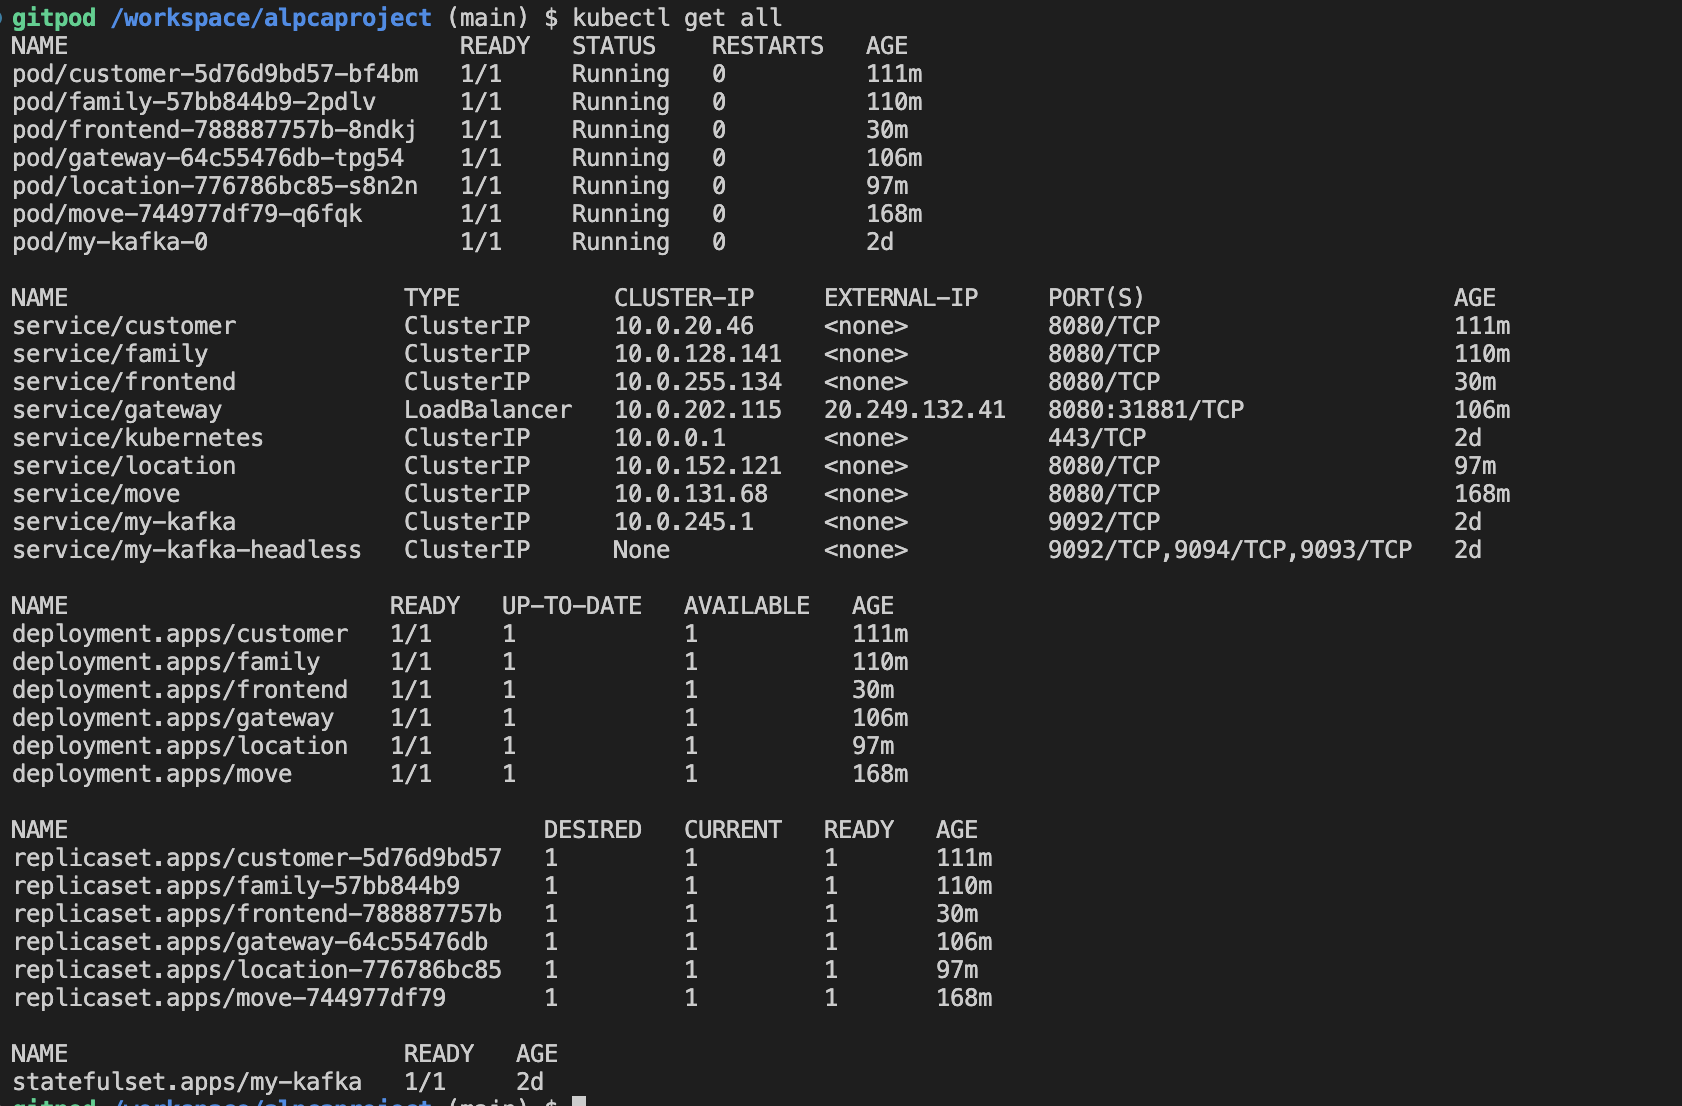
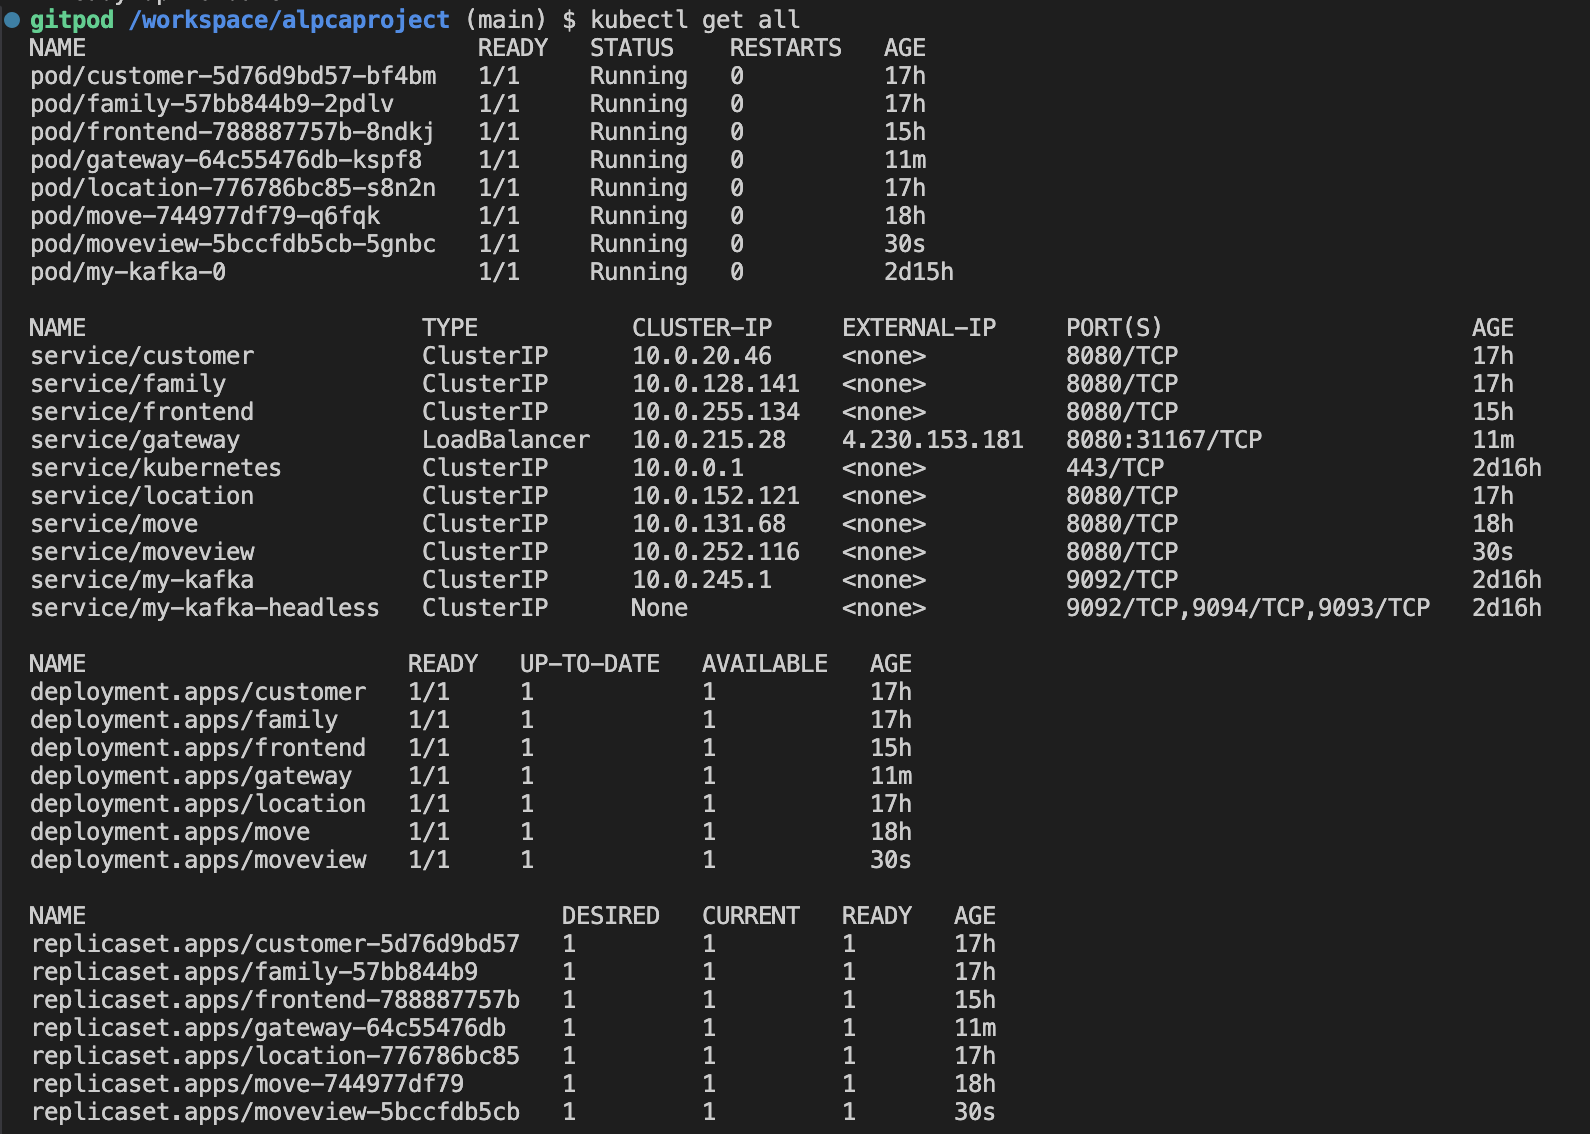
readme 업데이트

Changed region(s): [[0.0, 0.0, 0.8937, 1.0], [0.9245, 0.2767, 0.9862, 0.5533]]

diff --git a/README.md b/README.md
@@ -8,9 +8,13 @@
     - [비기능적요구사항](#비기능적-요구사항)
     - [분석설계](#분석-설계)
     - [이벤트스토밍 결과](#event-storming-결과)
-- [구현]
-- [운영]
-
+- [구현](#구현)
+    - [CQRS](#cqrs)
+- [운영](#운영)
+    - [Docker](#docker-build-이미지-생성-및-배포docker-hub)
+    - [K8S](#k8s-배포-설정)
+    - [API GateWay](#api-gateway)
+    - [Ingress](#ingress-설정)
 <br>
 <br>
 
@@ -115,20 +119,136 @@ mvn spring-boot:run
 ---
 이동(Move), 위치(Location) 등 Status에 대하여 고객(Customer)와 가족(Family)가 조회 및 알람을 받을 수 있도록 CQRS로 구현.
 
-- Customer 개별 distace, duration, status Aggregate Status를 통합 조회하여 성능 Issue를 사전에 예방할 수 있다.
+- Customer 개별 distace, duration, status Aggregate Status를 moveview를 통해 통합 조회하여 성능 Issue를 사전에 예방할 수 있다.
 - 비동기식으로 처리되며, Kafka를 통해 수신/처리 되어 별도 Table에 관리
 - CustomerRegister 이벤트 발생 시, Pub/Sub 기반으로 FamilyId에 해당하는 구성원이 수락해야 계정이 Active가 되도록 구성
 ![image.png](AICT%20Cloud%20Project%20b2a5de0cd0f54fa1bbb1cbd870b78442/image12.png)
 
+CQRS 데이터프로젝션을 moveview로 구현하여 API 요청시 customerId에 따른 상태값을 조회할 수 있다.
+```json
+{
+    "_embedded": {
+        "moveviews": [
+            {
+                "customerId": "guest2",
+                "distance": 25220,
+                "duration": 1630132,
+                "status": "moving",
+                "locId": "loc-20241011013733",
+                "_links": {
+                    "self": {
+                        "href": "http://localhost:8087/moveviews/move-20241011013732"
+                    },
+                    "moveview": {
+                        "href": "http://localhost:8087/moveviews/move-20241011013732"
+                    }
+                }
+            },
+            {
+                "customerId": "guest1",
+                "distance": 10328,
+                "duration": 1334892,
+                "status": "moving",
+                "locId": "loc-20241011013746",
+                "_links": {
+                    "self": {
+                        "href": "http://localhost:8087/moveviews/move-20241011013746"
+                    },
+                    "moveview": {
+                        "href": "http://localhost:8087/moveviews/move-20241011013746"
+                    }
+                }
+            },
+            {
+                "customerId": "guest1",
+                "distance": 19217,
+                "duration": 1543509,
+                "status": "moving",
+                "locId": "loc-20241011014036",
+                "_links": {
+                    "self": {
+                        "href": "http://localhost:8087/moveviews/move-20241011014035"
+                    },
+                    "moveview": {
+                        "href": "http://localhost:8087/moveviews/move-20241011014035"
+                    }
+                }
+            },
+            {
+                "customerId": "guest1",
+                "distance": 19324,
+                "duration": 1589128,
+                "status": "moving",
+                "locId": "loc-20241011014351",
+                "_links": {
+                    "self": {
+                        "href": "http://localhost:8087/moveviews/move-20241011014350"
+                    },
+                    "moveview": {
+                        "href": "http://localhost:8087/moveviews/move-20241011014350"
+                    }
+                }
+            },
+            {
+                "customerId": "guest1",
+                "distance": 10091,
+                "duration": 1287967,
+                "status": "moving",
+                "locId": "loc-20241011014856",
+                "_links": {
+                    "self": {
+                        "href": "http://localhost:8087/moveviews/move-20241011014856"
+                    },
+                    "moveview": {
+                        "href": "http://localhost:8087/moveviews/move-20241011014856"
+                    }
+                }
+            },
+            {
+                "customerId": "guest1",
+                "distance": 25217,
+                "duration": 1596921,
+                "status": "moving",
+                "locId": "loc-20241011015303",
+                "_links": {
+                    "self": {
+                        "href": "http://localhost:8087/moveviews/move-20241011015303"
+                    },
+                    "moveview": {
+                        "href": "http://localhost:8087/moveviews/move-20241011015303"
+                    }
+                }
+            }
+        ]
+    },
+    "_links": {
+        "self": {
+            "href": "http://localhost:8087/moveviews"
+        },
+        "profile": {
+            "href": "http://localhost:8087/profile/moveviews"
+        }
+    },
+    "page": {
+        "size": 20,
+        "totalElements": 6,
+        "totalPages": 1,
+        "number": 0
+    }
+}
+```
+
 <br>
 <br>
 
-## Docker Build 이미지 생성 및 배포(Docker hub)
+## 운영
+
+### Docker Build 이미지 생성 및 배포(Docker hub)
 ![image.png](AICT%20Cloud%20Project%20b2a5de0cd0f54fa1bbb1cbd870b78442/image9.png)
 
 <br>
 
-## K8S 배포 설정
+### K8S 배포 설정
 ![image.png](AICT%20Cloud%20Project%20b2a5de0cd0f54fa1bbb1cbd870b78442/image10.png)
 Azure Aks에 배포
 
@@ -136,7 +256,7 @@ Azure Aks에 배포
 AKS Pod, service, deployment, replicaset 들이 정상적으로 배포되고 LoadBalancer를 통해 잘 외부 IP에 배포된 모습
 <br>
 
-## API GateWay 
+### API GateWay 
 ```yaml
 server:
   port: 8088
@@ -233,6 +353,73 @@ server:
 
 ```
 
-## Ingress 설정
-내용
+### Ingress 설정
+Ingress를 사용하여 GateWay 포워딩 진행
 
+![image.png](AICT%20Cloud%20Project%20b2a5de0cd0f54fa1bbb1cbd870b78442/image13.png)
+
+
+```yaml
+apiVersion: networking.k8s.io/v1
+kind: "Ingress"
+metadata: 
+  name: "family-allimee-ingress"
+  annotations: 
+    nginx.ingress.kubernetes.io/ssl-redirect: "false"
+    ingressclass.kubernetes.io/is-default-class: "true"
+spec: 
+  ingressClassName: nginx
+  rules: 
+    - host: ""
+      http: 
+        paths: 
+          - path: /*
+            pathType: Prefix
+            backend: 
+              service:
+                name: frontend
+                port:
+                  number: 8080
+          - path: /customers
+            pathType: Prefix
+            backend: 
+              service:
+                name: customer
+                port:
+                  number: 8080
+          - path: /locations
+            pathType: Prefix
+            backend: 
+              service:
+                name: location
+                port:
+                  number: 8080
+          - path: /alarms
+            pathType: Prefix
+            backend: 
+              service:
+                name: alarm
+                port:
+                  number: 8080
+          - path: /moves
+            pathType: Prefix
+            backend: 
+              service:
+                name: move
+                port:
+                  number: 8080
+          - path: /families
+            pathType: Prefix
+            backend: 
+              service:
+                name: family
+                port:
+                  number: 8080     
+          - path: /moveviews
+            pathType: Prefix
+            backend: 
+              service:
+                name: moveview
+                port:
+                  number: 8080  
+```
